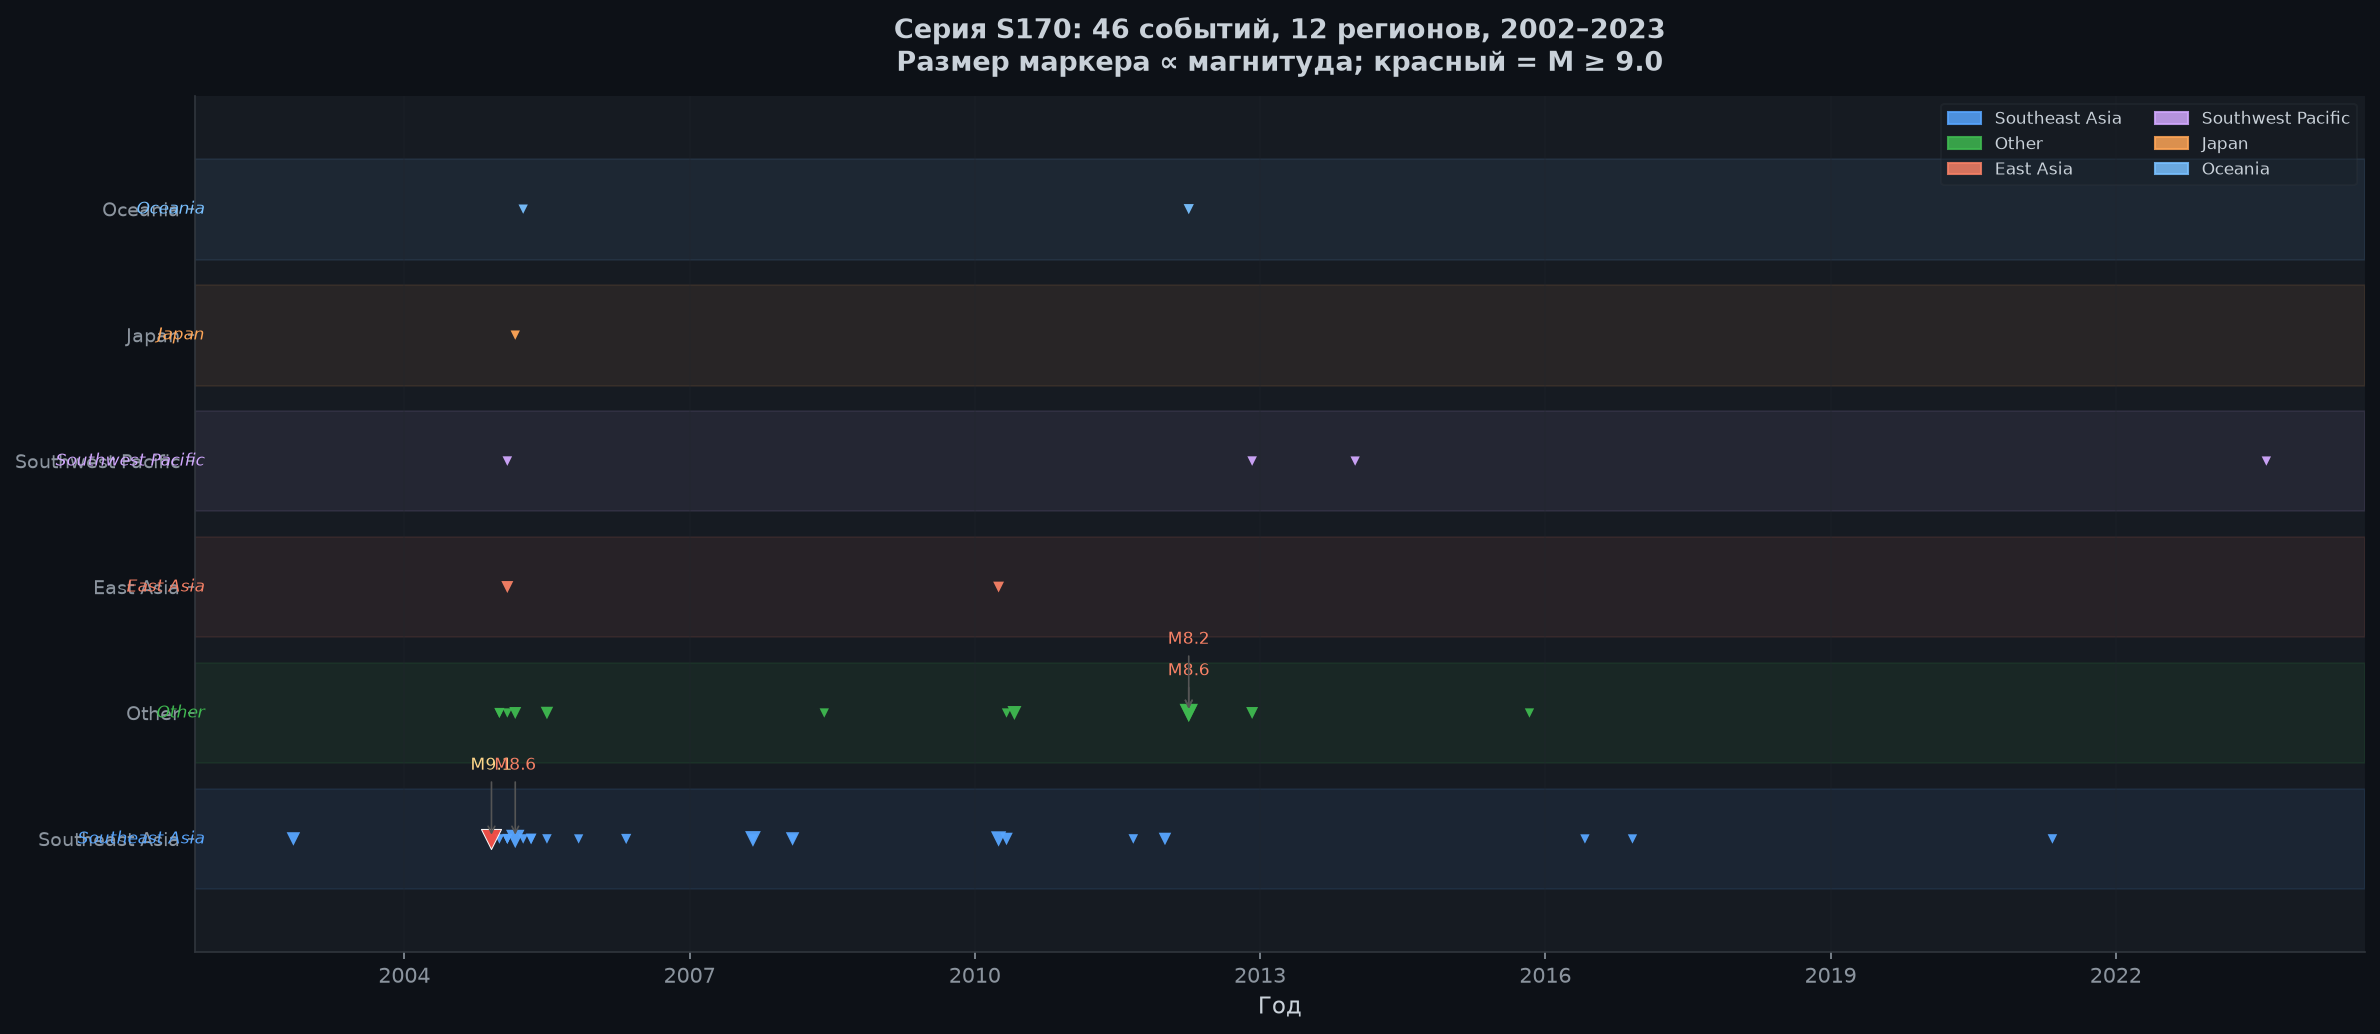
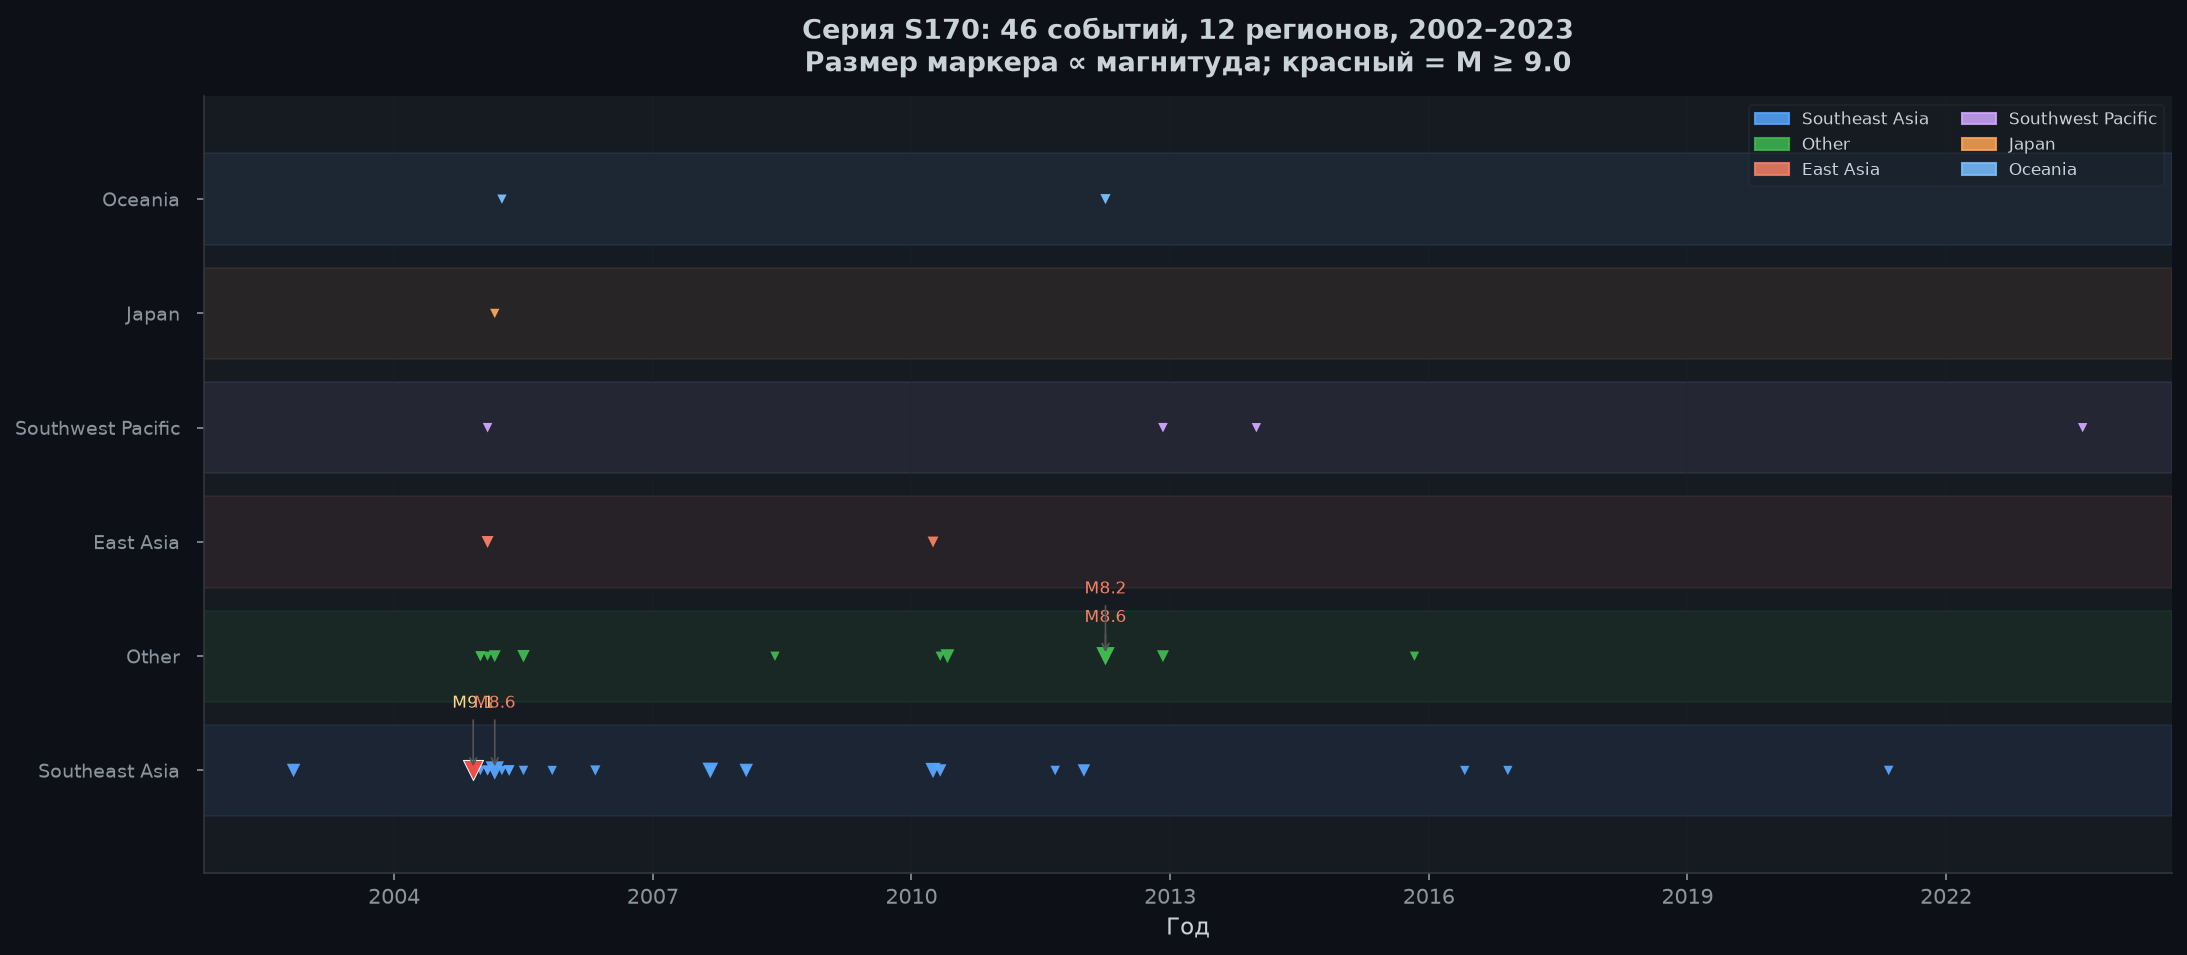
Fix showcase heatmap and S170 axis layout; add findings summary

diff --git a/presentation/project_showcase.html b/presentation/project_showcase.html
@@ -582,6 +582,89 @@
       line-height: 1.7;
       font-size: 0.92rem;
     }
+    .viz-figure-wrap {
+      overflow-x: auto;
+      overflow-y: visible;
+      margin-bottom: 0.5rem;
+      -webkit-overflow-scrolling: touch;
+    }
+    .viz-figure-wrap img {
+      display: block;
+      width: 100%;
+      height: auto;
+      max-width: none;
+      min-width: 520px;
+      border-radius: 10px;
+      border: 1px solid #30363d;
+    }
+    .findings-summary {
+      margin: 2.5rem 0 2rem;
+      padding: 2rem 2.25rem;
+      background: var(--card);
+      border: 1px solid var(--border);
+      border-radius: 14px;
+    }
+    .findings-summary h3 {
+      color: var(--accent);
+      font-size: 1.25rem;
+      margin: 0 0 1.25rem;
+    }
+    .findings-summary-grid {
+      display: grid;
+      gap: 1.25rem;
+    }
+    .findings-block {
+      padding: 1rem 1.25rem;
+      background: rgba(13, 17, 23, 0.55);
+      border-radius: 10px;
+      border-left: 3px solid var(--border);
+    }
+    .findings-block--problem { border-left-color: #ffa657; }
+    .findings-block--results { border-left-color: var(--green); }
+    .findings-block--honest { border-left-color: var(--purple); }
+    .findings-block--scope { border-left-color: var(--accent); }
+    .findings-block h4 {
+      color: #79c0ff;
+      font-size: 0.95rem;
+      margin: 0 0 0.6rem;
+      font-weight: 600;
+    }
+    .findings-block p,
+    .findings-block ul {
+      color: var(--text-dim);
+      font-size: 0.93rem;
+      line-height: 1.75;
+      margin: 0;
+    }
+    .findings-block ul {
+      padding-left: 1.2rem;
+    }
+    .findings-block li { margin-bottom: 0.35rem; }
+    .findings-block li:last-child { margin-bottom: 0; }
+    .findings-kpi {
+      display: grid;
+      grid-template-columns: repeat(auto-fit, minmax(130px, 1fr));
+      gap: 8px;
+      margin: 0.75rem 0 0;
+    }
+    .findings-kpi span {
+      display: block;
+      text-align: center;
+      padding: 8px 6px;
+      background: #0d1117;
+      border: 1px solid #30363d;
+      border-radius: 8px;
+      font-size: 0.78rem;
+      color: var(--text-muted);
+      line-height: 1.35;
+    }
+    .findings-kpi strong {
+      display: block;
+      font-family: var(--heading-font);
+      font-size: 1rem;
+      color: var(--text);
+      margin-bottom: 2px;
+    }
 
     /* ===== METHOD SECTION ===== */
     #method { background: #0a0e14; }
@@ -1646,6 +1729,71 @@
       <p>Главные числа исследования</p>
     </div>
 
+    <!-- Подробное резюме: проблематика / находки / выводы / рамки -->
+    <div class="findings-summary fade-in">
+      <h3>Резюме исследования</h3>
+      <div class="findings-summary-grid">
+
+        <div class="findings-block findings-block--problem">
+          <h4>Проблематика</h4>
+          <p>
+            Крупные землетрясения M≥6.5 не распределены как независимый
+            <span class="term-tip">пуассоновский процесс<span class="term-tip-box">Случайные события с постоянной средней частотой; «чистый шум» для сравнения с наблюдаемой кластеризацией.<a href="https://ru.wikipedia.org/wiki/Пуассоновский_процесс" class="term-tip-wiki" target="_blank" rel="noopener">Wikipedia ↗</a></span></span>.
+            После Суматры 2004 г. (M9.1) зафиксирована повышенная активность в удалённых регионах, но
+            <strong>корреляция в одной серии не доказывает причинность</strong> — возможны общая тектоническая нагрузка,
+            viscoelastic coupling или артефакты неполного каталога. Задача: отделить статистически значимую
+            глобальную кластеризацию от случайного фона и от локальных афтершоковых цепочек.
+          </p>
+        </div>
+
+        <div class="findings-block findings-block--results">
+          <h4>Ключевые находки (канонические числа проекта)</h4>
+          <ul>
+            <li><strong>4267</strong> уникальных событий M≥6.5 в merged-каталоге (4418 CSV-строк; ~151 запись NOAA M&lt;6.5 сохранена для провенанса, исключена из кластеризации)</li>
+            <li><strong>2041</strong> событие в современном окне <strong>1973–2026</strong> — основа заявлений о значимости</li>
+            <li><strong>47</strong> глобальных серий (≥3 зон Флинна–Энгдала); <strong>27</strong> современных с <strong>p ≤ 0.0001</strong></li>
+            <li><span class="term-tip">FDR<span class="term-tip-box">False Discovery Rate — поправка Benjamini–Hochberg на множественное тестирование.<a href="https://en.wikipedia.org/wiki/False_discovery_rate" class="term-tip-wiki" target="_blank" rel="noopener">Wikipedia ↗</a></span></span>: <strong>45/47</strong> серий значимы при q &lt; 0.05</li>
+            <li><span class="term-tip">ETAS<span class="term-tip-box">Epidemic Type Aftershock Sequence — стандартная модель кластеризации Ogata (1988); n=1000 синтетических каталогов.<a href="https://en.wikipedia.org/wiki/Epidemic-type_aftershock_sequence" class="term-tip-wiki" target="_blank" rel="noopener">Wikipedia ↗</a></span></span>: FPR <strong>1000/1000</strong>, среднее <strong>~15.4 ± 1.7</strong> ложных серий vs <strong>N<sub>obs</sub>=27</strong>; p<sub>ETAS</sub>≤0.001</li>
+            <li>Monte Carlo (10 000 перестановок): <strong>z = −6.17</strong>, p ≤ 0.0001</li>
+            <li>Декластеризация <span class="term-tip">Gardner–Knopoff<span class="term-tip-box">Основной метод отделения главных толчков от афтершоков; 98–100% событий — независимые M≥6.5.<a href="https://en.wikipedia.org/wiki/Leon_Knopoff" class="term-tip-wiki" target="_blank" rel="noopener">Wikipedia ↗</a></span></span> — первичный; тектоническое расстояние Bird (2003): <strong>98%</strong> пар на GC-фолбэке 1.5×, ~2% — реальный путь Дейкстры</li>
+            <li>Предварительные тесты <span class="term-tip">ΔCFS<span class="term-tip-box">Coulomb failure stress change; порог триггеринга ~0.01 МПа (Stein 1999). S170: +0.008 kPa — на три порядка ниже.<a href="https://en.wikipedia.org/wiki/Coulomb_stress_transfer" class="term-tip-wiki" target="_blank" rel="noopener">Wikipedia ↗</a></span></span> и динамического стресса для S170 <strong>не достигают порогов</strong> на телесейсмических расстояниях</li>
+          </ul>
+          <div class="findings-kpi">
+            <span><strong>4267</strong>M≥6.5 каталог</span>
+            <span><strong>2041</strong>1973–2026</span>
+            <span><strong>47</strong>глоб. серий</span>
+            <span><strong>27</strong>p≤0.0001</span>
+            <span><strong>45/47</strong>FDR</span>
+            <span><strong>15.4</strong>ETAS mean FPR</span>
+          </div>
+        </div>
+
+        <div class="findings-block findings-block--honest">
+          <h4>Честные выводы</h4>
+          <p>
+            <strong>Глобальный дальнодействующий триггеринг не доказан.</strong>
+            Обнаружены статистически устойчивые пространственно-временные серии (η-метрика, permutation test, FDR, ETAS),
+            но физический механизм не установлен. Проект даёт <strong>воспроизводимый пайплайн</strong>
+            (curator → η + тектоническое расстояние → серии → null-тесты) и явно разделяет
+            <em>статистическую значимость</em> и <em>причинность</em>.
+            Совместное появление событий в серии S170 (12 регионов, 18 100 км) — корреляция, не доказанный механизм передачи стресса.
+          </p>
+        </div>
+
+        <div class="findings-block findings-block--scope">
+          <h4>Рамки и разрешение исследования</h4>
+          <p>
+            Заявления о значимости опираются на <strong>современное инструментальное окно 1973–2026</strong>
+            (2041 событие) и ранний инструментальный период 1900–1972 (15 серий, p = 0.007).
+            Записи <strong>до 1900</strong> (5 исторических кандидатов, p = 0.46) сохранены для контекста,
+            но <strong>не используются для эпохальных заявлений о значимости</strong> из-за неполноты каталога и dating uncertainty.
+            η-метрика не включает глубину очага и механизмы очагов; ΔCFS/динамический стресс — exploratory future work.
+          </p>
+        </div>
+
+      </div>
+    </div>
+
     <div class="results-stats">
       <div class="stat-card fade-in">
         <div class="stat-number" data-target="2041" data-suffix="">0</div>
@@ -2075,8 +2223,11 @@
       Чем темнее клетка — тем больше крупных землетрясений в этом регионе
       в данный период. Тихоокеанский регион лидирует — он находится в «Огненном кольце».
       Хорошо виден всплеск активности в 2000-е годы.
+      Ось X — десятилетия 1900–2020-х (до 1900 исключены, чтобы метки не накладывались).
     </p>
-    <img src="../figures/viz5_heatmap_regions.png" style="width:100%; border-radius:10px; border:1px solid #30363d;" alt="Тепловая карта регионов">
+    <div class="viz-figure-wrap">
+      <img src="../figures/viz5_heatmap_regions.png" alt="Тепловая карта регионов">
+    </div>
   </div>
 
   <!-- VIZ 6 -->
@@ -2088,7 +2239,9 @@
       землетрясение 2004 года (M9.1). До и после него — серия мощных толчков
       на разных концах Земли.
     </p>
-    <img src="../figures/viz6_series_s170.png" style="width:100%; border-radius:10px; border:1px solid #30363d;" alt="Серия S170">
+    <div class="viz-figure-wrap">
+      <img src="../figures/viz6_series_s170.png" alt="Серия S170">
+    </div>
   </div>
 </section>
 

diff --git a/scripts/generate_visualizations.py b/scripts/generate_visualizations.py
@@ -475,36 +475,40 @@ def viz5_heatmap_regions():
         return r[:45]
 
     df["region_short"] = df[region_col].apply(shorten)
-    top_regions = (df.groupby("region_short").size()
+    # Instrumental window only — pre-1900 decades crowd the x-axis
+    df_inst = df[df["year"] >= 1900].copy()
+    top_regions = (df_inst.groupby("region_short").size()
                      .sort_values(ascending=False)
-                     .head(20).index.tolist())
+                     .head(12).index.tolist())
 
-    df_top = df[df["region_short"].isin(top_regions)].copy()
+    decades_inst = [d for d in decades if d >= 1900]
+    df_top = df_inst[df_inst["region_short"].isin(top_regions)].copy()
     pivot = df_top.pivot_table(
         index="region_short", columns="decade",
         values="event_id", aggfunc="count", fill_value=0
     )
-    pivot = pivot.reindex(columns=decades, fill_value=0)
+    pivot = pivot.reindex(columns=decades_inst, fill_value=0)
     pivot = pivot.loc[top_regions]
     pivot.columns = [decade_labels.get(d, str(d)) for d in pivot.columns]
 
     # find max-activity row
     max_row = pivot.sum(axis=1).idxmax()
 
-    fig_h = max(8, len(top_regions) * 0.45)
-    fig, ax = plt.subplots(figsize=(14, fig_h))
+    fig_w = max(14, len(decades_inst) * 0.85)
+    fig_h = max(7, len(top_regions) * 0.55)
+    fig, ax = plt.subplots(figsize=(fig_w, fig_h))
     fig.patch.set_facecolor(BG)
     ax.set_facecolor(CARD)
 
     data = pivot.values.astype(float)
     im = ax.imshow(data, aspect="auto", cmap="YlOrRd",
-                   vmin=0, vmax=data.max())
+                   vmin=0, vmax=max(data.max(), 1))
 
     ax.set_xticks(range(len(pivot.columns)))
-    ax.set_xticklabels(pivot.columns, rotation=45, ha="right",
+    ax.set_xticklabels(pivot.columns, rotation=90, ha="center", va="top",
                        color=TEXT, fontsize=10)
     ax.set_yticks(range(len(top_regions)))
-    ax.set_yticklabels(pivot.index, color=TEXT, fontsize=8)
+    ax.set_yticklabels(pivot.index, color=TEXT, fontsize=9)
 
     # cell annotations
     for i in range(len(top_regions)):
@@ -532,13 +536,13 @@ def viz5_heatmap_regions():
     plt.setp(cbar.ax.yaxis.get_ticklabels(), color=MUTED)
     cbar.outline.set_edgecolor(BORDER)
 
-    ax.set_title("Активность по регионам и десятилетиям (M ≥ 6.5)",
+    ax.set_title("Активность по регионам и десятилетиям (M ≥ 6.5, 1900–2026)",
                  fontsize=13, pad=14, color=TEXT, fontweight="bold")
-    ax.tick_params(colors=MUTED)
+    ax.tick_params(colors=MUTED, axis="x", pad=6)
     for sp in ax.spines.values():
         sp.set_edgecolor(BORDER)
 
-    plt.tight_layout(pad=1.5)
+    fig.subplots_adjust(bottom=0.22, left=0.28, right=0.92, top=0.90)
     save(fig, "viz5_heatmap_regions")
     plt.close(fig)
 
@@ -611,13 +615,10 @@ def viz6_series_s170():
     x_min = s170["year_float"].min()
     x_max = s170["year_float"].max()
     x_pad = max(1.0, (x_max - x_min) * 0.05)
-    label_x_left = x_min - x_pad * 0.9
 
     # horizontal bands per group
     for g, yi in group_y.items():
         ax.axhspan(yi - 0.4, yi + 0.4, color=group_colors[g], alpha=0.08, zorder=1)
-        ax.text(label_x_left, yi, g, va="center", ha="right", fontsize=8,
-                color=group_colors[g], fontstyle="italic")
 
     for idx_ev, (_, ev) in enumerate(s170.iterrows()):
         yi = group_y[ev["group"]]
@@ -646,8 +647,12 @@ def viz6_series_s170():
                 zorder=11,
             )
 
+    ytick_labels = list(group_y.keys())
     ax.set_yticks(list(group_y.values()))
-    ax.set_yticklabels(list(group_y.keys()), fontsize=9, color=TEXT)
+    ax.set_yticklabels(
+        ytick_labels, fontsize=9, color=TEXT, ha="right",
+    )
+    ax.tick_params(axis="y", pad=8)
     ax.set_xlim(x_min - x_pad, x_max + x_pad)
     ax.set_ylim(-0.9, len(groups) - 0.1)
 
@@ -679,7 +684,7 @@ def viz6_series_s170():
     for txt in legend.get_texts():
         txt.set_color(TEXT)
 
-    plt.tight_layout()
+    fig.subplots_adjust(left=0.16, right=0.98, top=0.88, bottom=0.14)
     save(fig, "viz6_series_s170")
     plt.close(fig)
 